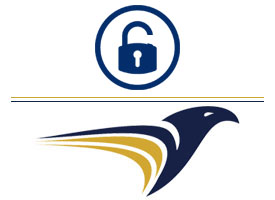
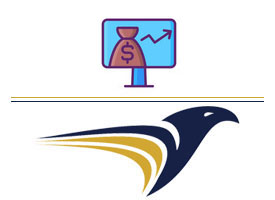
images

Changed region(s): [[0.32, 0.0, 0.6691, 0.45]]

diff --git a/portfolio/templates/portfolio/mutualfund_list.html b/portfolio/templates/portfolio/mutualfund_list.html
@@ -1,0 +1,72 @@
+{% extends 'portfolio/base.html' %}
+{% block content %}
+    <html>
+    <head>
+        <meta charset="UTF-8">
+        <title>Eagle Financial</title>
+        <link rel="stylesheet" href="https://maxcdn.bootstrapcdn.com/bootstrap/3.3.4/css/bootstrap.min.css">
+
+    </head>
+    <body>
+    <style>
+        body {
+            background-color: beige;
+        }
+    </style>
+    <div class="container">
+        <div class="row">
+            <div class="col-md-10 col-md-offset-1">
+                <div class="panel panel-primary">
+                    <div class="panel-heading">Welcome!</div>
+                    <div class="panel-body">
+                        Eagle Financial Services, your Midwest Financial Services Partner.
+                    </div>
+                </div>
+            </div>
+        </div>
+    </div>
+    <div class="row">
+        <h2 style="padding-left: 15Px">Mutual Fund Information</h2>
+    </div>
+    <div>
+        <table class="table table-striped table-bordered table-hover">
+            <thead>
+            <tr class="bg-info">
+                <th>Customer number</th>
+                <th>Category</th>
+                <th>Description</th>
+                <th>Acquired Value</th>
+                <th>Acquired Date</th>
+                <th>Recent Value</th>
+                <th>Recent Date</th>
+                <th colspan="3">Actions</th>
+            </tr>
+            </thead>
+            <tbody>
+            {% for mutualfund in mutualfunds %}
+                <tr>
+                    <td>{{ mutualfund.customer }}</td>
+                    <td>{{ mutualfund.name }}</td>
+                    <td>{{ mutualfund.shares }}</td>
+                    <td>{{ mutualfund.purchase_value }}</td>
+                    <td>{{ mutualfund.purchase_date }}</td>
+                    <td>{{ mutualfund.current_value }}</td>
+                    <td>{{ mutualfund.current_date }}</td>
+                    <td><a href="{% url 'portfolio:mutualfund_edit' pk=mutualfund.pk %}"
+                           class="btn btn-warning">Edit</a></td>
+                    <td><a href="{% url 'portfolio:mutualfund_delete' pk=mutualfund.pk %}"
+                           onclick="return confirm('Are you sure you want to delete?')"
+                           class="btn btn-danger">Delete</a>
+                    </td>
+                </tr>
+            {% endfor %}
+            </tbody>
+        </table>
+    <div class="row">
+         <a href="{% url 'portfolio:mutualfund_new' %}" class="row"><span
+                    class="btn btn-primary">Add Mutual Fund</span></a>
+     </div>
+    </div>
+    </body>
+    </html>
+{% endblock %}

diff --git a/portfolio/templates/portfolio/base.html b/portfolio/templates/portfolio/base.html
@@ -69,6 +69,7 @@
                 <li><a href="{% url 'portfolio:customer_list' %}">Customers</a></li>
                 <li><a href="{% url 'portfolio:investment_list' %}">Investments</a></li>
                 <li><a href="{% url 'portfolio:stock_list' %}">Stocks</a></li>
+                <li><a href="{% url 'portfolio:mutualfund_list' %}">Mutual Funds</a></li>
                 {% endif %}
 
             </ul>
@@ -98,7 +99,7 @@
                 <div class="links">
                     <!-- Example row of columns -->
                     <div class="row">
-                        <div class="col-md-3">
+                        <div class="col-md-4">
                             <div class="thumbnail">
                                 <img src="{% static "images/customer.jpg" %}" alt="customer"/>
                                 <div class="caption">
@@ -115,7 +116,7 @@
                                 </div>
                             </div>
                         </div>
-                        <div class="col-md-3">
+                        <div class="col-md-4">
                             <div class="thumbnail">
                                 <img src="{% static "images/nonstock.jpg" %}" alt="non-stock"/>
                                 <div class="caption">
@@ -127,7 +128,7 @@
                                 </div>
                             </div>
                         </div>
-                        <div class="col-md-3">
+                        <div class="col-md-4">
                             <div class="thumbnail">
                                 <img src="{% static "images/stocks.jpg" %}" alt="stocks"/>
                                 <div class="caption">
@@ -138,7 +139,17 @@
                                 </div>
                             </div>
                         </div>
-
+                        <div class="col-md-4">
+                            <div class="thumbnail">
+                                <img src="{% static "images/stocks.jpg" %}" alt="stocks"/>
+                                <div class="caption">
+                                    <h2>Mutual Funds</h2>
+                                    <p>Our Stock portfolios vary across industries.</p>
+                                    <p><a class="btn btn-default" href="{% url 'portfolio:mutualfund_list' %}" role="button">View
+                                        details &raquo;</a></p>
+                                </div>
+                            </div>
+                        </div>
                     </div>
                 </div>
             {% endblock %}

diff --git a/portfolio/templates/portfolio/home.html b/portfolio/templates/portfolio/home.html
@@ -34,7 +34,7 @@
                                 </div>
                                 <div class="col-md-3">
                                     <div class="thumbnail">
-                                        <img src="{% static "images/nonstock.jpg" %}" alt="non-stock"/>
+                                        <img src="{% static "images/investments.jpg" %}" alt="non-stock"/>
                                         <div class="caption">
                                             <h2>Non-Stock Investments</h2>
                                             <p>Our team also provides advises for Non-Stock investments.</p>
@@ -51,6 +51,18 @@
                                             <h2>Stocks</h2>
                                             <p>Our Stock portfolios vary across industries.</p>
                                             <p><a class="btn btn-primary" href="{% url 'portfolio:stock_list' %}"
+                                                  role="button">View
+                                                details &raquo;</a></p>
+                                        </div>
+                                    </div>
+                                </div>
+                              <div class="col-md-3">
+                                    <div class="thumbnail">
+                                        <img src="{% static "images/mutualfunds.jpg" %}" alt="stocks"/>
+                                        <div class="caption">
+                                            <h2>Stocks</h2>
+                                            <p>Our Stock portfolios vary across industries.</p>
+                                            <p><a class="btn btn-primary" href="{% url 'portfolio:mutualfund_list' %}"
                                                   role="button">View
                                                 details &raquo;</a></p>
                                         </div>

diff --git a/portfolio/templates/portfolio/base2.html b/portfolio/templates/portfolio/base2.html
@@ -69,6 +69,7 @@
                 <li><a href="{% url 'portfolio:customer_list' %}">Customers</a></li>
                 <li><a href="{% url 'portfolio:investment_list' %}">Investments</a></li>
                 <li><a href="{% url 'portfolio:stock_list' %}">Stocks</a></li>
+                <li><a href="{% url 'portfolio:mutualfund_list' %}">Mutual Funds</a></li>
                 {% endif %}
 
             </ul>

diff --git a/portfolio/templates/portfolio/mutualfund_delete.html b/portfolio/templates/portfolio/mutualfund_delete.html
@@ -1,0 +1,10 @@
+{% extends 'portfolio/base.html' %}
+{% block body_block %}
+    <h1>Delete {{ mutualfund.name }}?</h1>
+
+    <form method="post">
+        {% csrf_token %}
+        <input type="submit" class="btn btn-danger" value="Delete">
+        <a href="{% url 'portfolio:home' pk=mutualfund.pk %} ">Cancel</a>
+    </form>
+{% endblock %}

diff --git a/portfolio/templates/portfolio/mutualfund_new.html b/portfolio/templates/portfolio/mutualfund_new.html
@@ -1,0 +1,9 @@
+{% extends 'portfolio/base.html' %}
+{% load crispy_forms_tags %}
+{% block content %}
+    <h1>Add a New Mutual Fund</h1>
+    <form method="POST" class="mutualfund-form">{% csrf_token %}
+          {{ form|crispy }}
+        <button type="submit" class="save btn btn-default">Save</button>
+    </form>
+{% endblock %}

diff --git a/portfolio/templates/portfolio/mutualfund_edit.html b/portfolio/templates/portfolio/mutualfund_edit.html
@@ -1,0 +1,9 @@
+{% extends 'portfolio/base.html' %}
+{% load crispy_forms_tags %}
+{% block content %}
+    <h1>Edit Mutual Fund</h1>
+    <form method="POST" class="mutualfund-form">{% csrf_token %}
+         {{ form|crispy }}
+        <button type="submit" class="save btn btn-default">Update</button>
+    </form>
+{% endblock %}

diff --git a/portfolio/views.py b/portfolio/views.py
@@ -161,6 +161,50 @@ def investment_delete(request, pk):
 
 
 @login_required
+def mutualfund_list(request):
+   mutualfunds = MutualFund.objects.filter(purchase_date__lte=timezone.now())
+   return render(request, 'portfolio/mutualfund_list.html', {'mutualfunds': mutualfunds})
+
+@login_required
+def mutualfund_new(request):
+   if request.method == "POST":
+       form = MutualFundForm(request.POST)
+       if form.is_valid():
+           mutualfund = form.save(commit=False)
+           mutualfund.created_date = timezone.now()
+           mutualfund.save()
+           mutualfunds = MutualFund.objects.filter(purchase_date__lte=timezone.now())
+           return render(request, 'portfolio/mutualfund_list.html',
+                         {'mutualfunds': mutualfunds})
+   else:
+       form = MutualFundForm()
+       # print("Else")
+   return render(request, 'portfolio/mutualfund_new.html', {'form': form})
+
+@login_required
+def mutualfund_edit(request, pk):
+   mutualfund = get_object_or_404(MutualFund, pk=pk)
+   if request.method == "POST":
+       form = MutualFundForm(request.POST, instance=mutualfund)
+       if form.is_valid():
+           mutualfund = form.save()
+           mutualfund.updated_date = timezone.now()
+           mutualfund.save()
+           mutualfund = MutualFund.objects.filter(purchase_date__lte=timezone.now())
+           return render(request, 'portfolio/mutualfund_list.html', {'mutualfunds': mutualfund})
+   else:
+       # print("else")
+       form = MutualFundForm(instance=mutualfund)
+   return render(request, 'portfolio/mutualfund_edit.html', {'form': form})
+
+@login_required
+def mutualfund_delete(request, pk):
+   mutualfund = get_object_or_404(MutualFund, pk=pk)
+   mutualfund.delete()
+   return redirect('portfolio:mutualfund_list')
+
+
+@login_required
 def portfolio(request,pk):
    customer = get_object_or_404(Customer, pk=pk)
    customers = Customer.objects.filter(created_date__lte=timezone.now())

diff --git a/portfolio/migrations/0003_mutualfund.py b/portfolio/migrations/0003_mutualfund.py
@@ -1,0 +1,28 @@
+# Generated by Django 2.0.5 on 2019-07-21 17:23
+
+from django.db import migrations, models
+import django.db.models.deletion
+import django.utils.timezone
+
+
+class Migration(migrations.Migration):
+
+    dependencies = [
+        ('portfolio', '0002_investment_stock'),
+    ]
+
+    operations = [
+        migrations.CreateModel(
+            name='MutualFund',
+            fields=[
+                ('id', models.AutoField(auto_created=True, primary_key=True, serialize=False, verbose_name='ID')),
+                ('name', models.CharField(max_length=50)),
+                ('shares', models.DecimalField(decimal_places=1, max_digits=10)),
+                ('purchase_value', models.DecimalField(decimal_places=2, max_digits=10)),
+                ('purchase_date', models.DateField(default=django.utils.timezone.now)),
+                ('current_value', models.DecimalField(decimal_places=2, max_digits=10)),
+                ('current_date', models.DateField(blank=True, default=django.utils.timezone.now, null=True)),
+                ('customer', models.ForeignKey(on_delete=django.db.models.deletion.CASCADE, related_name='mutualfund', to='portfolio.Customer')),
+            ],
+        ),
+    ]

diff --git a/portfolio/models.py b/portfolio/models.py
@@ -53,6 +53,26 @@ class Investment(models.Model):
         return self.recent_value - self.acquired_value
 
 
+class MutualFund(models.Model):
+    customer = models.ForeignKey(Customer, on_delete=models.CASCADE, related_name='mutualfund')
+    name = models.CharField(max_length=50)
+    shares = models.DecimalField(max_digits=10, decimal_places=1)
+    purchase_value = models.DecimalField(max_digits=10, decimal_places=2)
+    purchase_date = models.DateField(default=timezone.now)
+    current_value = models.DecimalField(max_digits=10, decimal_places=2)
+    current_date = models.DateField(default=timezone.now, blank=True, null=True)
+
+    def created(self):
+        self.purchase_date = timezone.now()
+        self.save()
+
+    def __str__(self):
+        return str(self.customer)
+
+    def initial_mutual_fund(self):
+        return self.shares * self.purchase_value
+
+
 class Stock(models.Model):
     customer = models.ForeignKey(Customer, on_delete=models.CASCADE, related_name='stocks')
     symbol = models.CharField(max_length=10)

diff --git a/portfolio/admin.py b/portfolio/admin.py
@@ -1,5 +1,5 @@
 from django.contrib import admin
-from .models import Customer, Investment, Stock
+from .models import Customer, Investment, MutualFund, Stock
 
 
 class CustomerList(admin.ModelAdmin):
@@ -14,6 +14,12 @@ class InvestmentList(admin.ModelAdmin):
     search_fields = ('customer', 'category')
     ordering = ['customer']
 
+class MutualFundList(admin.ModelAdmin):
+    list_display = ('customer', 'name', 'shares', 'purchase_value')
+    list_filter = ('customer', 'name')
+    search_fields = ('customer', 'name')
+    ordering = ['customer']
+
 class StockList(admin.ModelAdmin):
     list_display = ('customer','symbol', 'name', 'shares', 'purchase_price')
     list_filter = ('customer','symbol', 'name')
@@ -23,4 +29,5 @@ class StockList(admin.ModelAdmin):
 
 admin.site.register(Customer, CustomerList)
 admin.site.register(Investment, InvestmentList)
+admin.site.register(MutualFund, MutualFundList)
 admin.site.register(Stock, StockList)

diff --git a/portfolio/urls.py b/portfolio/urls.py
@@ -24,6 +24,11 @@ urlpatterns = [
     path('investment/create/', views.investment_new, name='investment_new'),
     path('investment/<int:pk>/edit/', views.investment_edit, name='investment_edit'),
     path('investment/<int:pk>/delete/', views.investment_delete, name='investment_delete'),
+    # Mutual Funds
+    path('mutualfund_list', views.mutualfund_list, name='mutualfund_list'),
+    path('mutualfund/create/', views.mutualfund_new, name='mutualfund_new'),
+    path('mutualfund/<int:pk>/edit/', views.mutualfund_edit, name='mutualfund_edit'),
+    path('mutualfund/<int:pk>/delete/', views.mutualfund_delete, name='mutualfund_delete'),
     # Portfolio
     path('customer/<int:pk>/portfolio/', views.portfolio, name='portfolio'),
     url(r'^customers_json/', views.CustomerList.as_view()),
